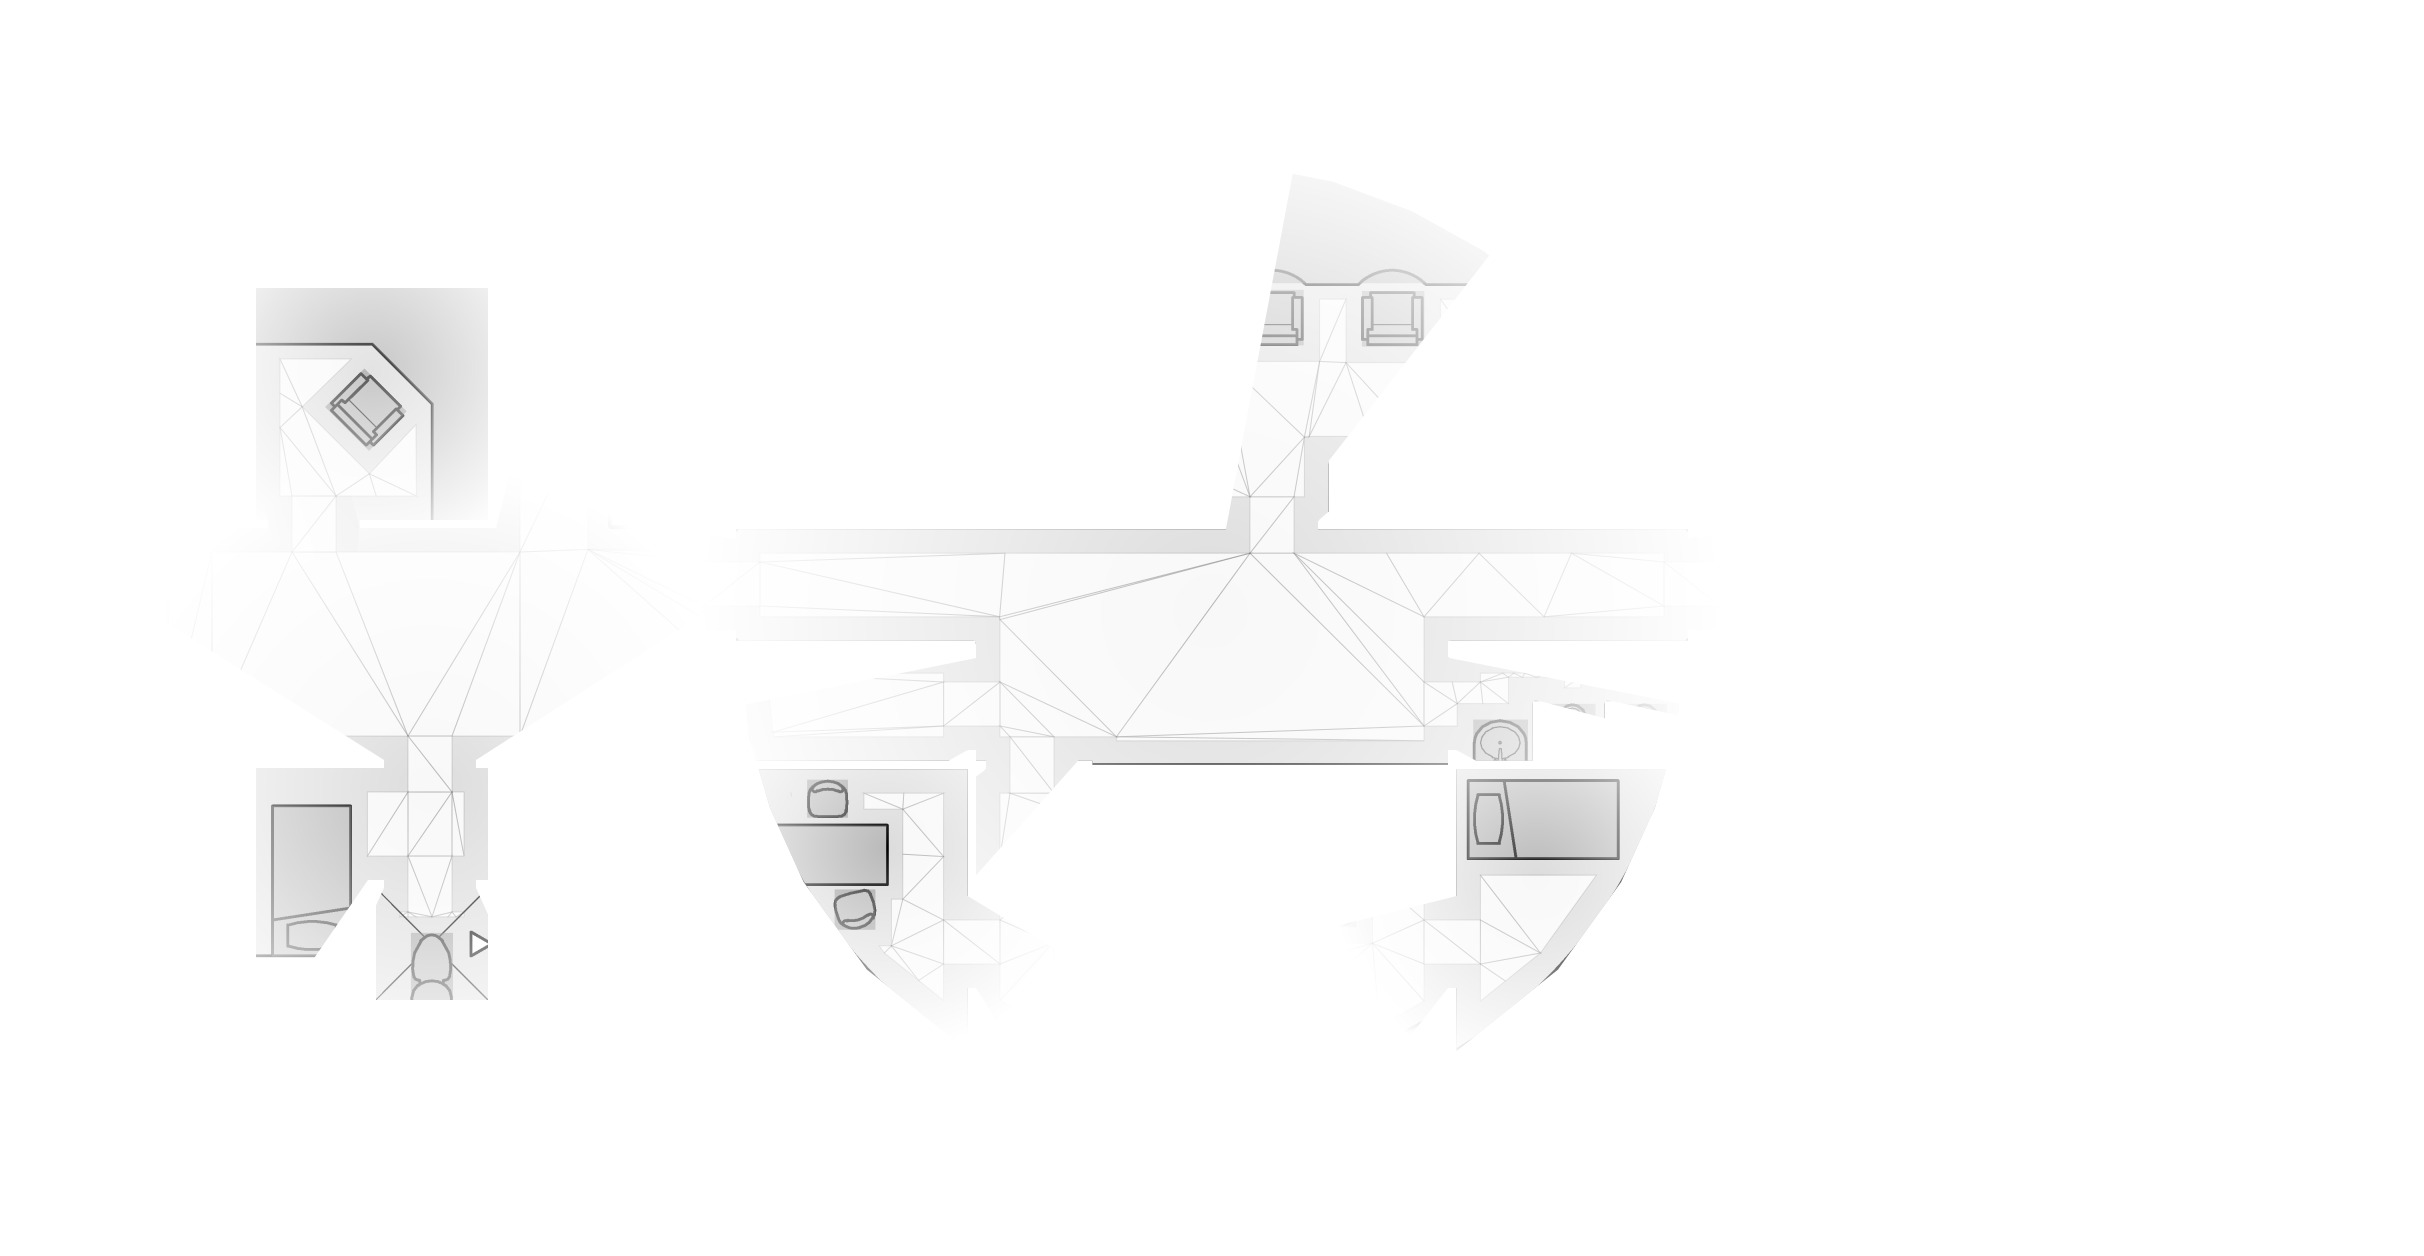
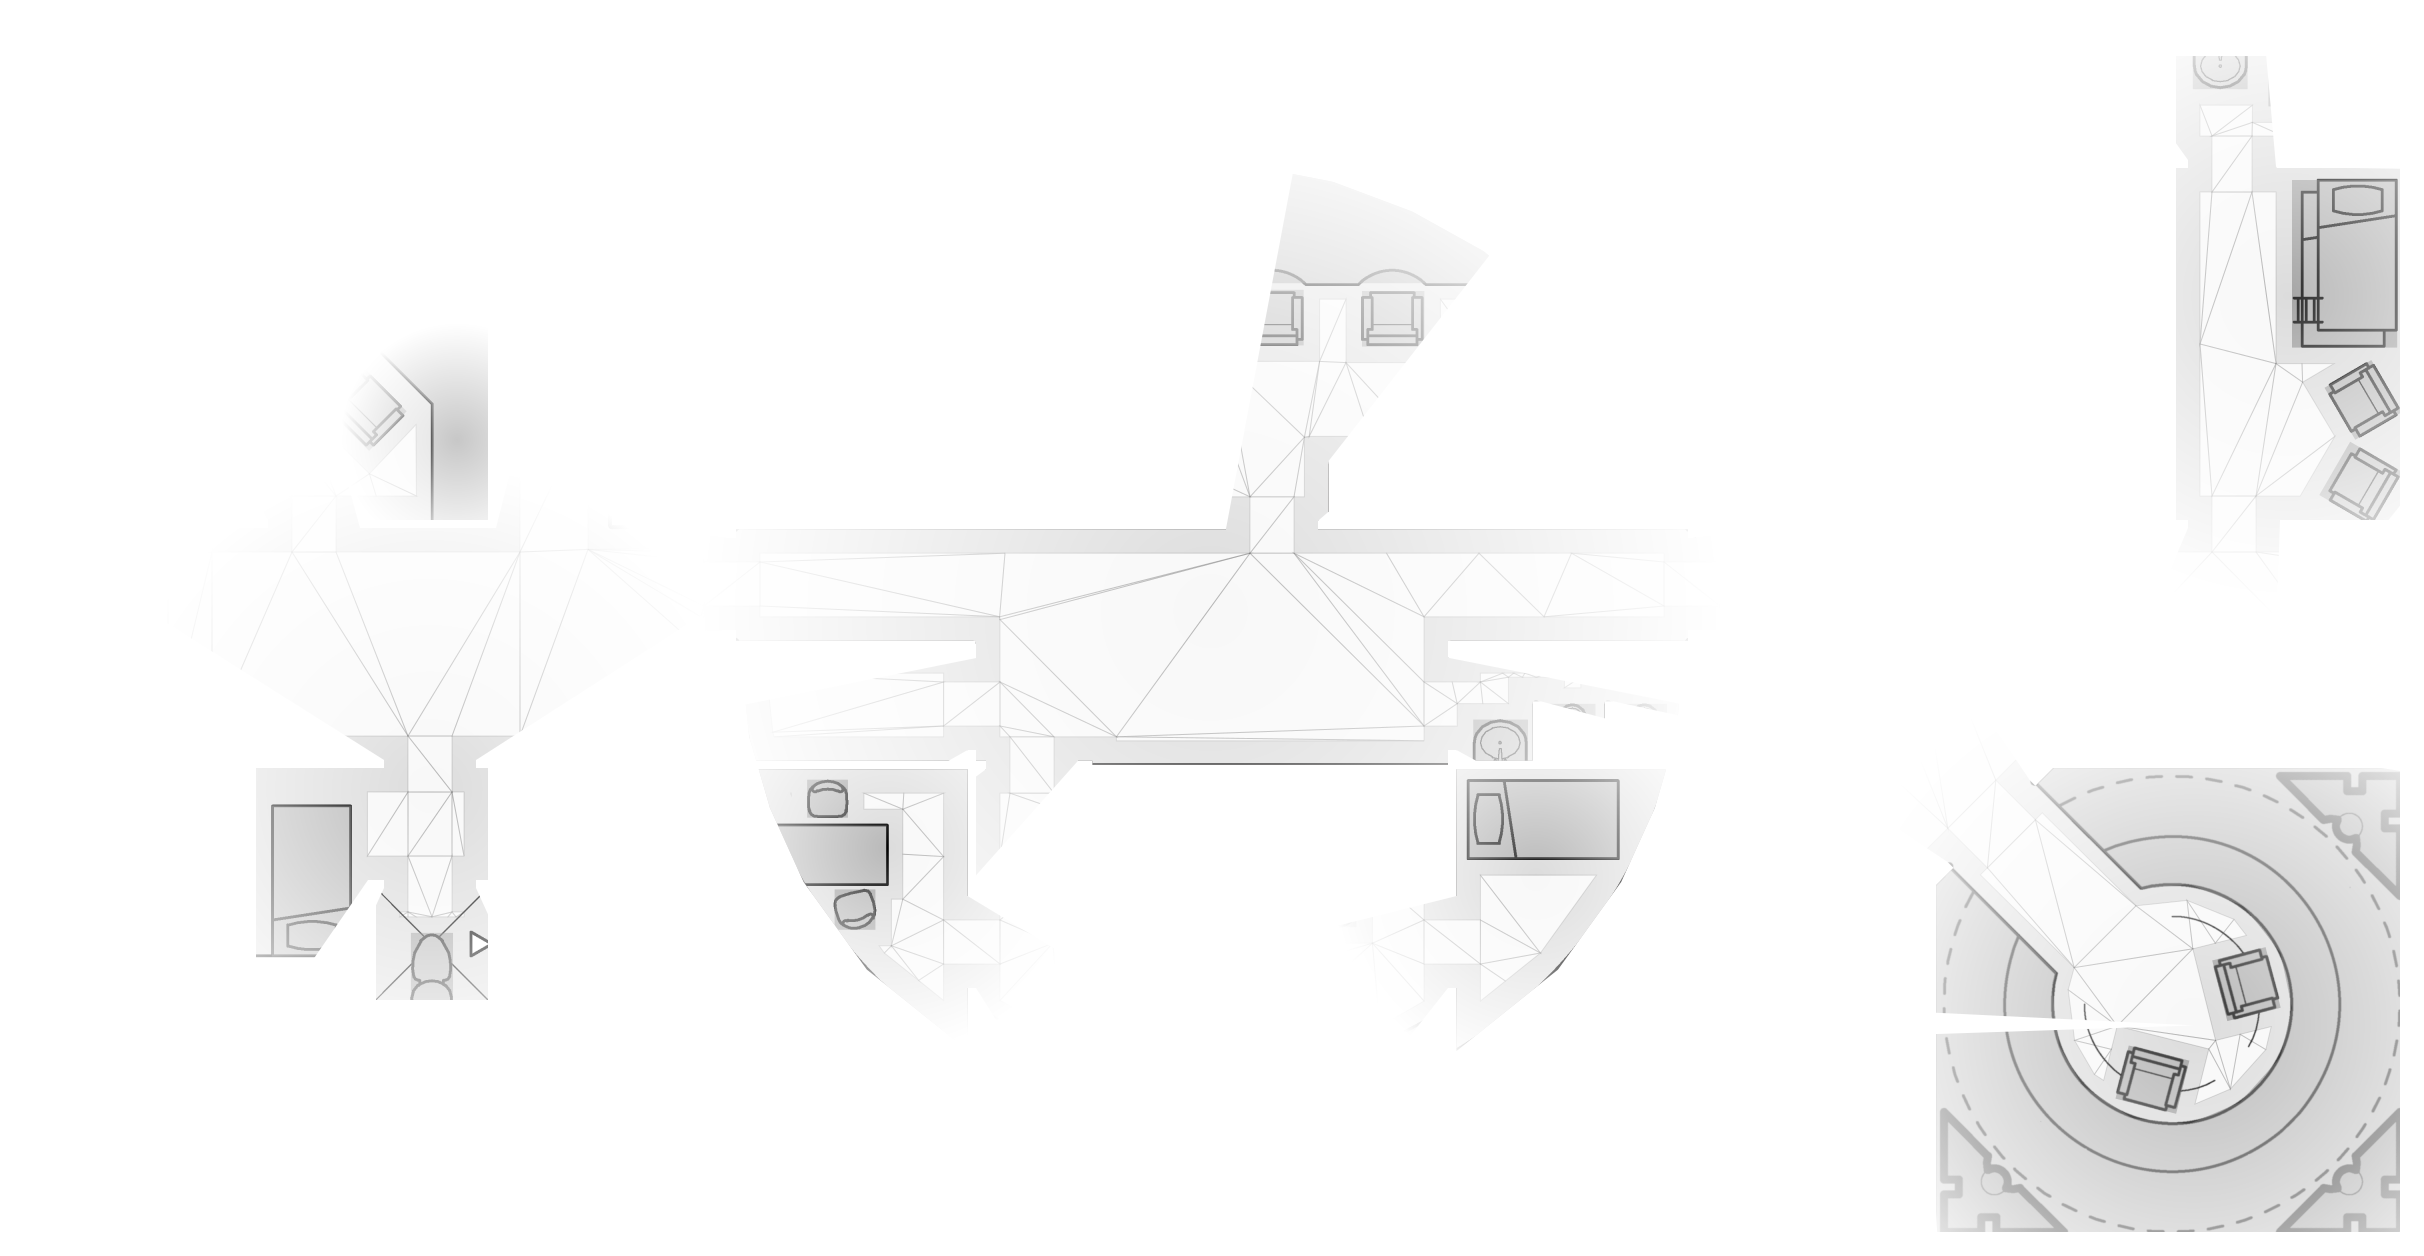
not convinced by lights; trying alteratives

diff --git a/projects/example/GeomorphCssLightsTest.jsx b/projects/example/GeomorphCssLightsTest.jsx
@@ -9,6 +9,10 @@ import CanvasLights from "../geomorph/CanvasLights";
 import { equals } from "../service/generic";
 import Doors from "../geomorph/Doors";
 
+/**
+ * IDEA provide masks for "light rooms" and layer original image atop
+ */
+
 /** @param {{ disabled?: boolean }} props */
 export default function GeomorphCssLightsTest(props) {
 
@@ -42,7 +46,7 @@ export default function GeomorphCssLightsTest(props) {
             height: json.pngRect.height,
           }}
         />
-        <img
+        {/* <img
           className="geomorph-light"
           src={geomorphPngPath(layoutKey, 'light')}
           draggable={false}
@@ -52,9 +56,9 @@ export default function GeomorphCssLightsTest(props) {
             width: json.pngRect.width,
             height: json.pngRect.height,
           }}
-        />
+        /> */}
         {/* <CanvasLights json={json} defs={state.lightDefs} wire={state.wire} /> */}
-        {/* <Doors json={json} wire={state.wire} /> */}
+        <Doors json={json} wire={state.wire} />
       </>}
     </CssPanZoom>
   );
@@ -65,7 +69,8 @@ const layoutKey = 'g-301--bridge';
 
 const rootCss = css`
   img.geomorph {
-    filter: invert(100%) brightness(20%);
+    filter: brightness(20%);
+    filter: invert(100%) brightness(70%);
     position: absolute;
   }
   img.geomorph-light {

diff --git a/projects/geomorph/Doors.jsx b/projects/geomorph/Doors.jsx
@@ -61,7 +61,7 @@ const rootCss = css`
   div.door {
     position: absolute;
     cursor: pointer;
-    background: #000;
+    background: white;
     opacity: 1;
     transition: opacity 100ms linear;
     &.open {

diff --git a/media/scripts/render-light.js b/media/scripts/render-light.js
@@ -1,5 +1,5 @@
 /**
- * TODO two layers of lights so do not intersect
+ * Not yet sold i.e. we might not bother with this.
  */
 
 /**
